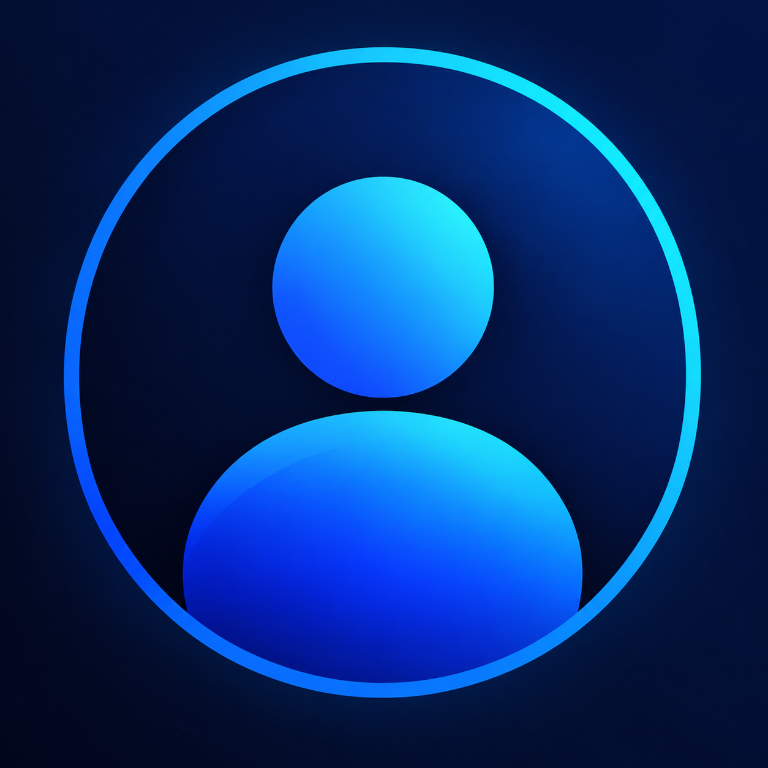
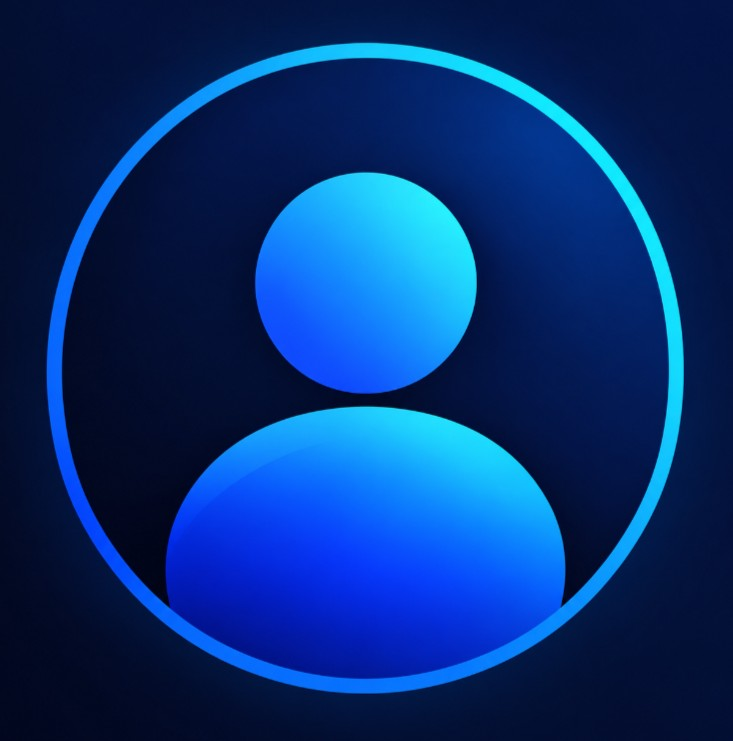
face detection

diff --git a/services/aiAutoPostService.js b/services/aiAutoPostService.js
@@ -73,7 +73,9 @@ const getPersonalizationContext = async (config) => {
 };
 
 const buildPostGenerationPrompt = ({ config, context, category, contentType }) => {
-  const language = config.language === "Custom" ? config.customLanguage : config.language;
+  const language = config.language.trim().toLowerCase() === "custom"
+    ? config.customLanguage || "the requested custom language"
+    : config.language;
   const prompt = `Create one polished, original Connect social post.
 Return ONLY JSON: {"topic":"","caption":"","hashtags":[],"contentType":"","imagePrompt":""}.
 Write the topic, caption, hashtags, and metadata in ${language}. Every word in the caption must be in ${language}; do not translate it to English. Tone=${config.tone} (follow this tone consistently); category=${category}; format=${contentType}.

diff --git a/controllers/aiCompleteController.js b/controllers/aiCompleteController.js
@@ -730,7 +730,7 @@ const completeGemini = async ({
       // mid-string, which then appears to the caller as invalid JSON.
       maxOutputTokens: json ? Math.min(maxTokens, 700) : Math.min(maxTokens, 220),
       candidateCount: 1,
-      ...(!json ? {} : {}),
+      ...(json ? { responseMimeType: "application/json" } : {}),
       ...(/gemini-(2\.5|3)/i.test(String(model))
         ? { thinkingConfig: { thinkingBudget: 0 } }
         : {}),
